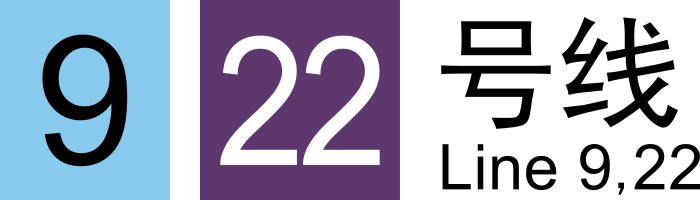
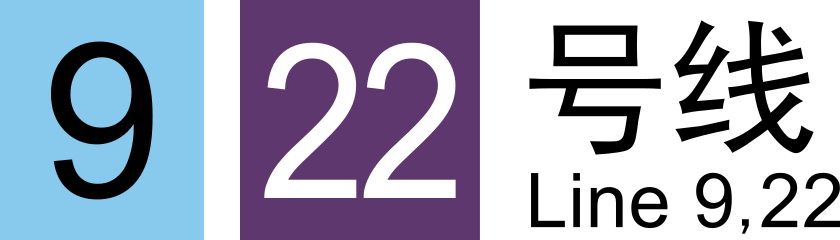
docs: refresh hanging sign tool preview images at 240px by vibe coding
primary prompts:
- 请替换为新的两张图片（高度改为240，为120的整数倍）并且在两张图片之间分段然后提交
- webp图片在这里 C:\Users\Umamichi\Desktop\制图

diff --git a/src/content/tools/index.md b/src/content/tools/index.md
@@ -41,9 +41,13 @@ GitHub：[kyuri-metro/shmetro-hanging-sign-line-label-2025-svg-generator](https:
 
 示例：
 
-<img src="/tools/imgs/shmetro-hanging-sign-line-label/line-3-4-10-hanging-sign-line-label-2025.webp" alt="上海地铁悬挂指示牌线路标识生成器输出示例（3、4、10 号线）" style="max-height: 120px" />
+<p>
+<img src="/tools/imgs/shmetro-hanging-sign-line-label/line-3-4-10-hanging-sign-line-label-2025.webp" alt="上海地铁悬挂指示牌线路标识生成器输出示例（3、4、10 号线）" style="max-height: 240px" />
+</p>
 
-<img src="/tools/imgs/shmetro-hanging-sign-line-label/line-9-22-hanging-sign-line-label-2025.webp" alt="上海地铁悬挂指示牌线路标识生成器输出示例（9、22 号线）" style="max-height: 120px" />
+<p>
+<img src="/tools/imgs/shmetro-hanging-sign-line-label/line-9-22-hanging-sign-line-label-2025.webp" alt="上海地铁悬挂指示牌线路标识生成器输出示例（9、22 号线）" style="max-height: 240px" />
+</p>
 
 #### [数字线路号地贴生成器](https://kyuri-metro-storybook.umamichi.moe/?path=/docs/kyuri-metro-shmetro-numeric-floor-sticker-2025-svg-generator--docs)
 
